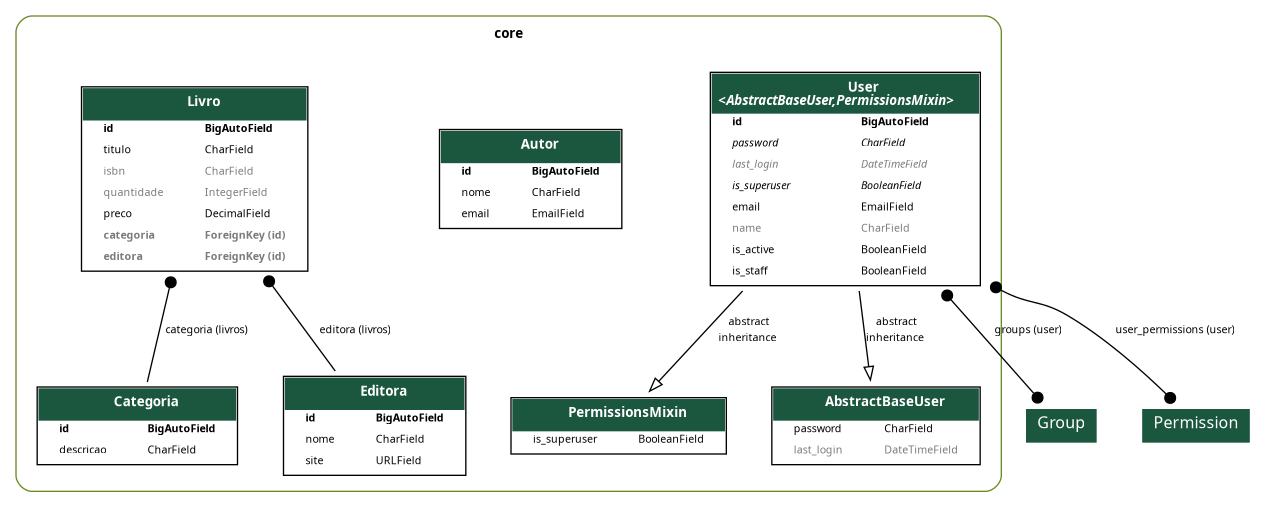
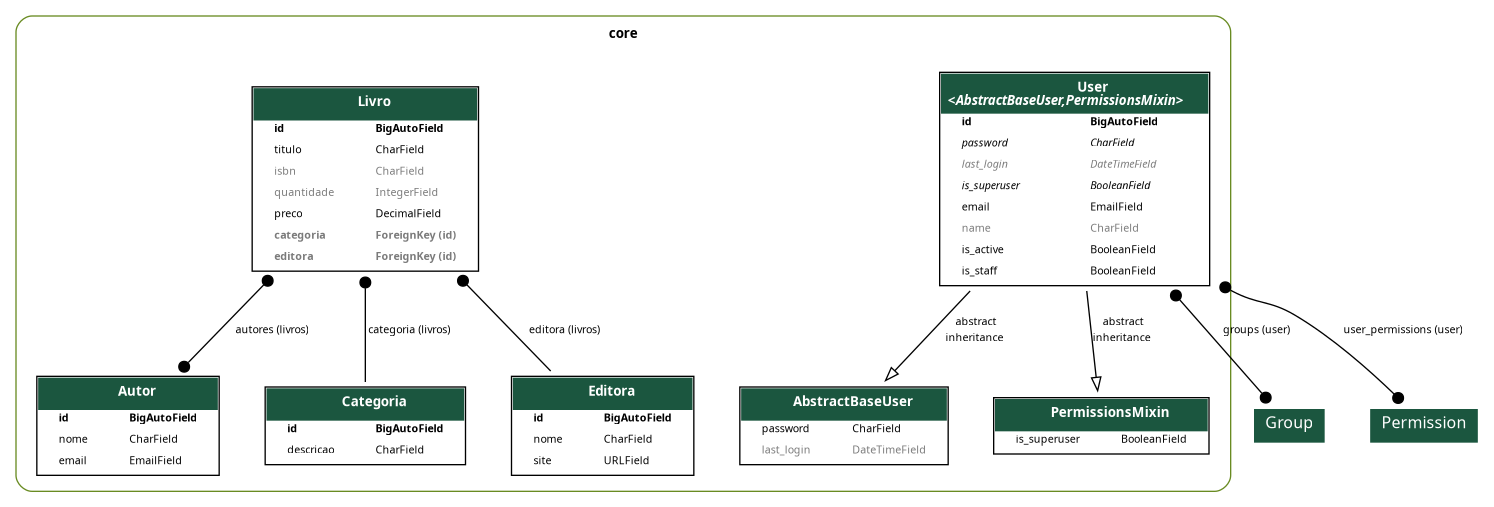
feat: inclusão do relacionamento n para n entre Livro e Autor

diff --git a/core/models/livro.py b/core/models/livro.py
@@ -1,5 +1,6 @@
 from django.db import models
 
+from .autor import Autor
 from .categoria import Categoria
 from .editora import Editora
 
@@ -11,6 +12,7 @@ class Livro(models.Model):
     preco = models.DecimalField(max_digits=7, decimal_places=2, default=0)
     categoria = models.ForeignKey(Categoria, on_delete=models.PROTECT, related_name='livros', null=True, blank=True)
     editora = models.ForeignKey(Editora, on_delete=models.PROTECT, related_name='livros', null=True, blank=True)
+    autores = models.ManyToManyField(Autor, related_name='livros', blank=True)
 
     def __str__(self):
         return f'({self.id}) {self.titulo} ({self.quantidade})'

diff --git a/core/migrations/0011_livro_autores.py b/core/migrations/0011_livro_autores.py
@@ -1,0 +1,18 @@
+# Generated by Django 5.2.12 on 2026-04-25 21:28
+
+from django.db import migrations, models
+
+
+class Migration(migrations.Migration):
+
+    dependencies = [
+        ('core', '0010_livro_categoria_livro_editora'),
+    ]
+
+    operations = [
+        migrations.AddField(
+            model_name='livro',
+            name='autores',
+            field=models.ManyToManyField(blank=True, related_name='livros', to='core.autor'),
+        ),
+    ]
